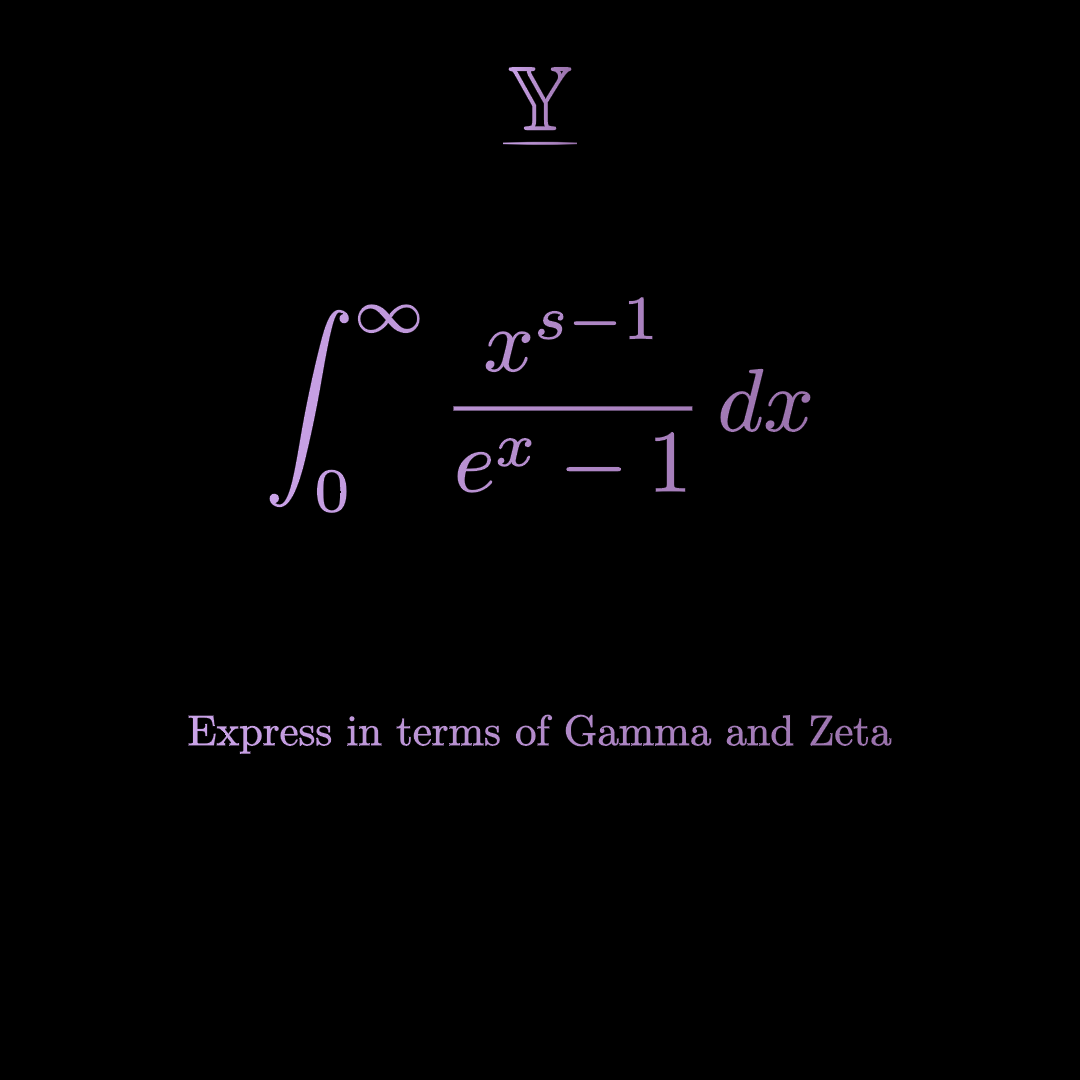
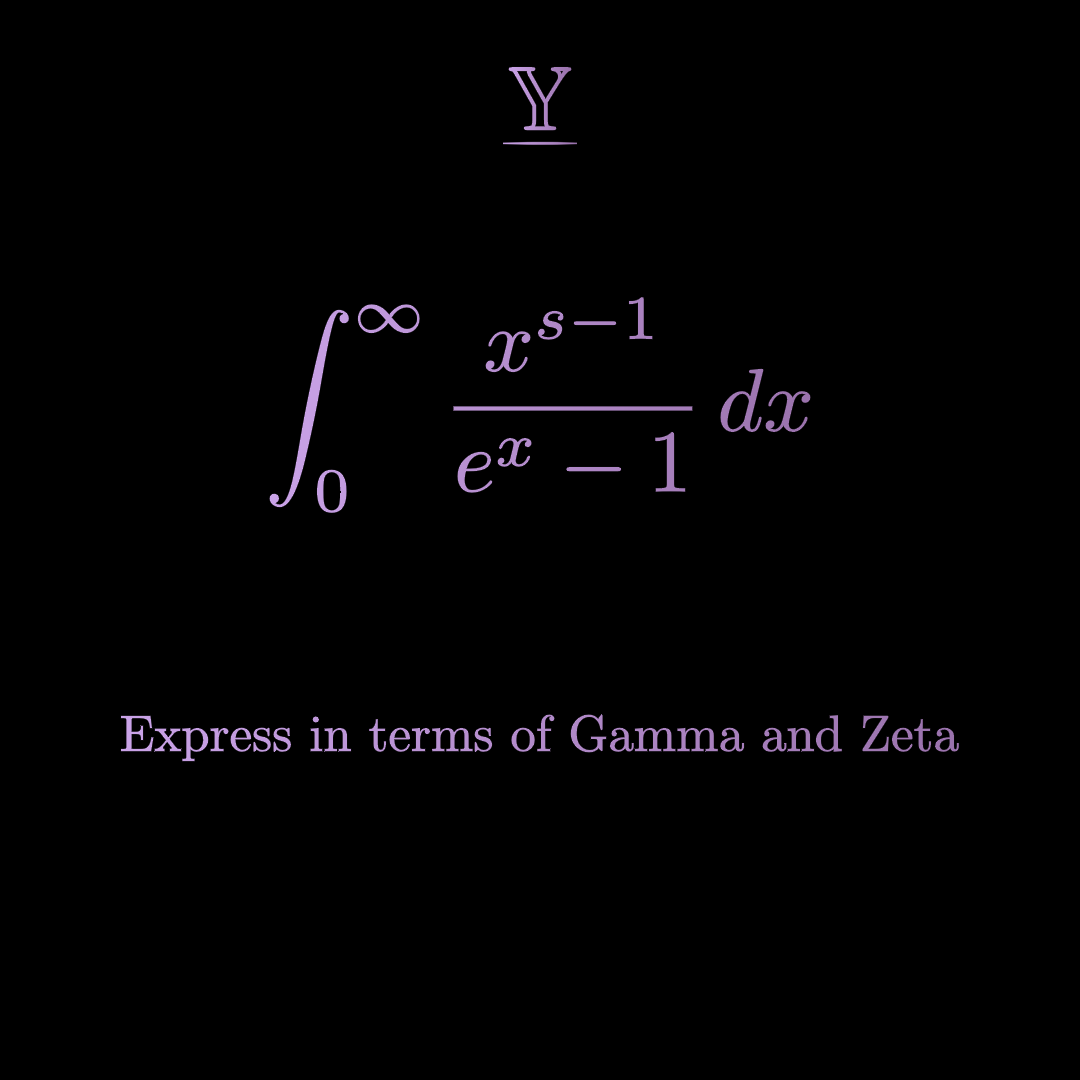
f

Changed region(s): [[0.0917, 0.6417, 0.8861, 0.7028]]

diff --git a/char.py b/char.py
@@ -729,7 +729,7 @@ class Y(InteractiveScene):
 
         solve = TexText("Express in terms of Gamma and Zeta")
         solve.set_color(color)
-        solve.set_width(5.2)
+        solve.set_width(6.2)
         solve.next_to(problem, DOWN, buff=LARGE_BUFF * 1.5)
         self.add(solve)
 
